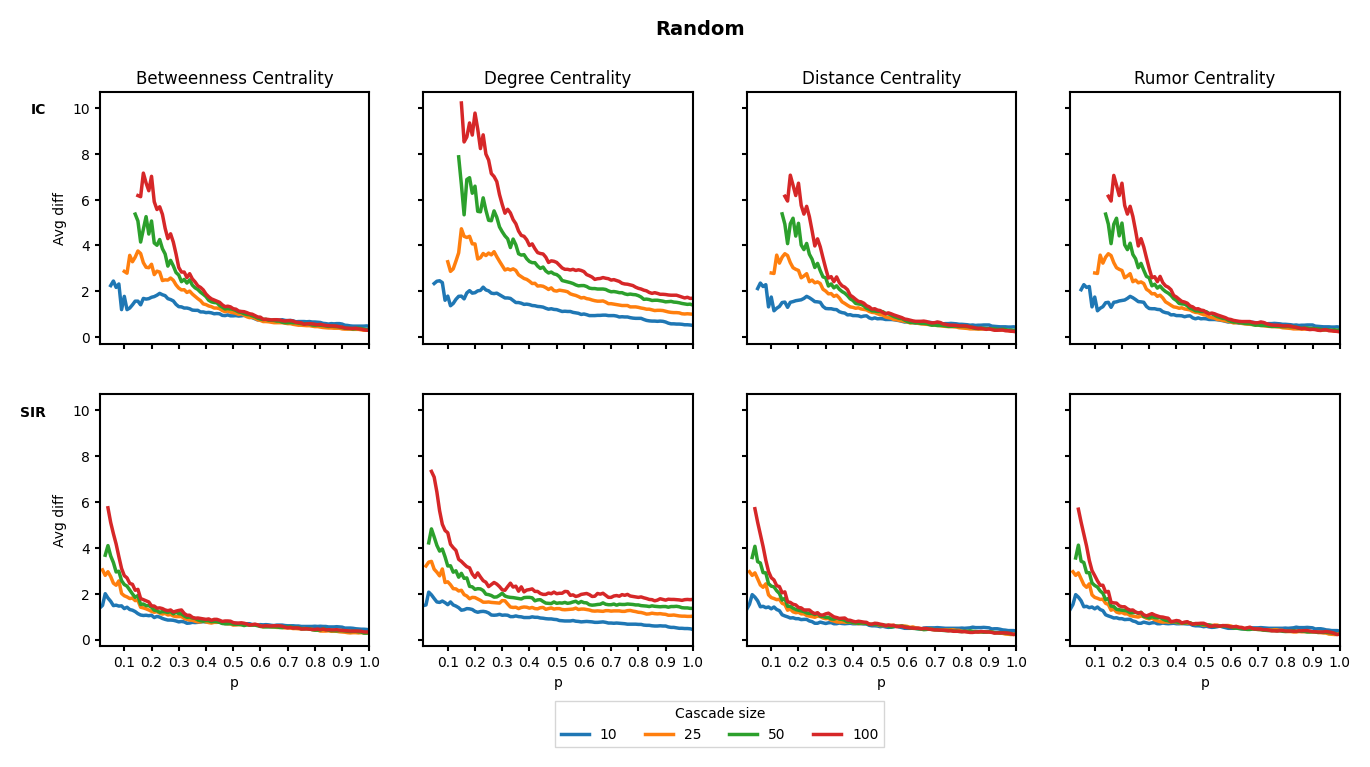
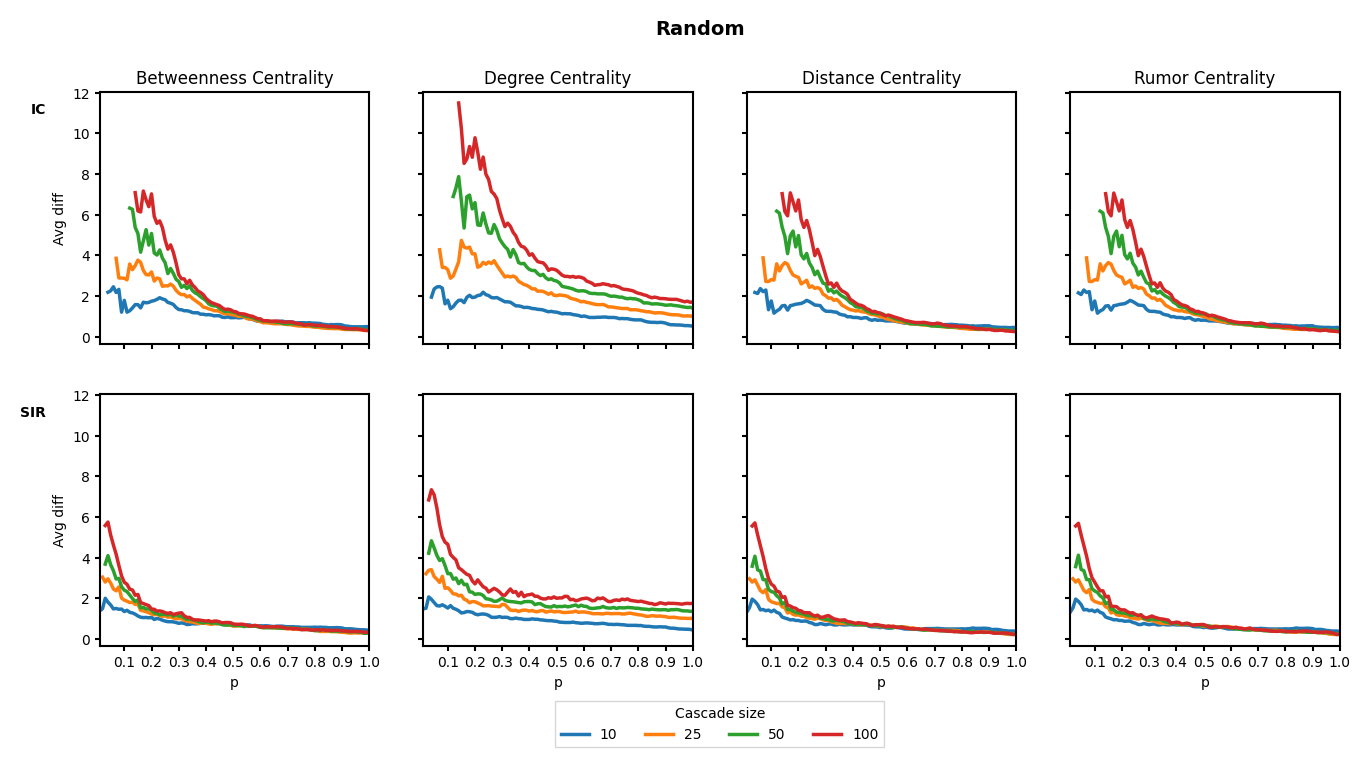
updated plots

diff --git a/src/patient_zero/experiments/simulations.py b/src/patient_zero/experiments/simulations.py
@@ -15,7 +15,7 @@ from patient_zero.enums import NetworkType, ModelType
 
 BASE_PATH = Path(__file__).resolve().parent
 MAX_ATTEMPTS_PER_SIM = 1_000
-MAX_SIMULATIONS = 1_000
+MAX_SIMULATIONS = 10_000
 
 def run_simulation(
     graph, 
